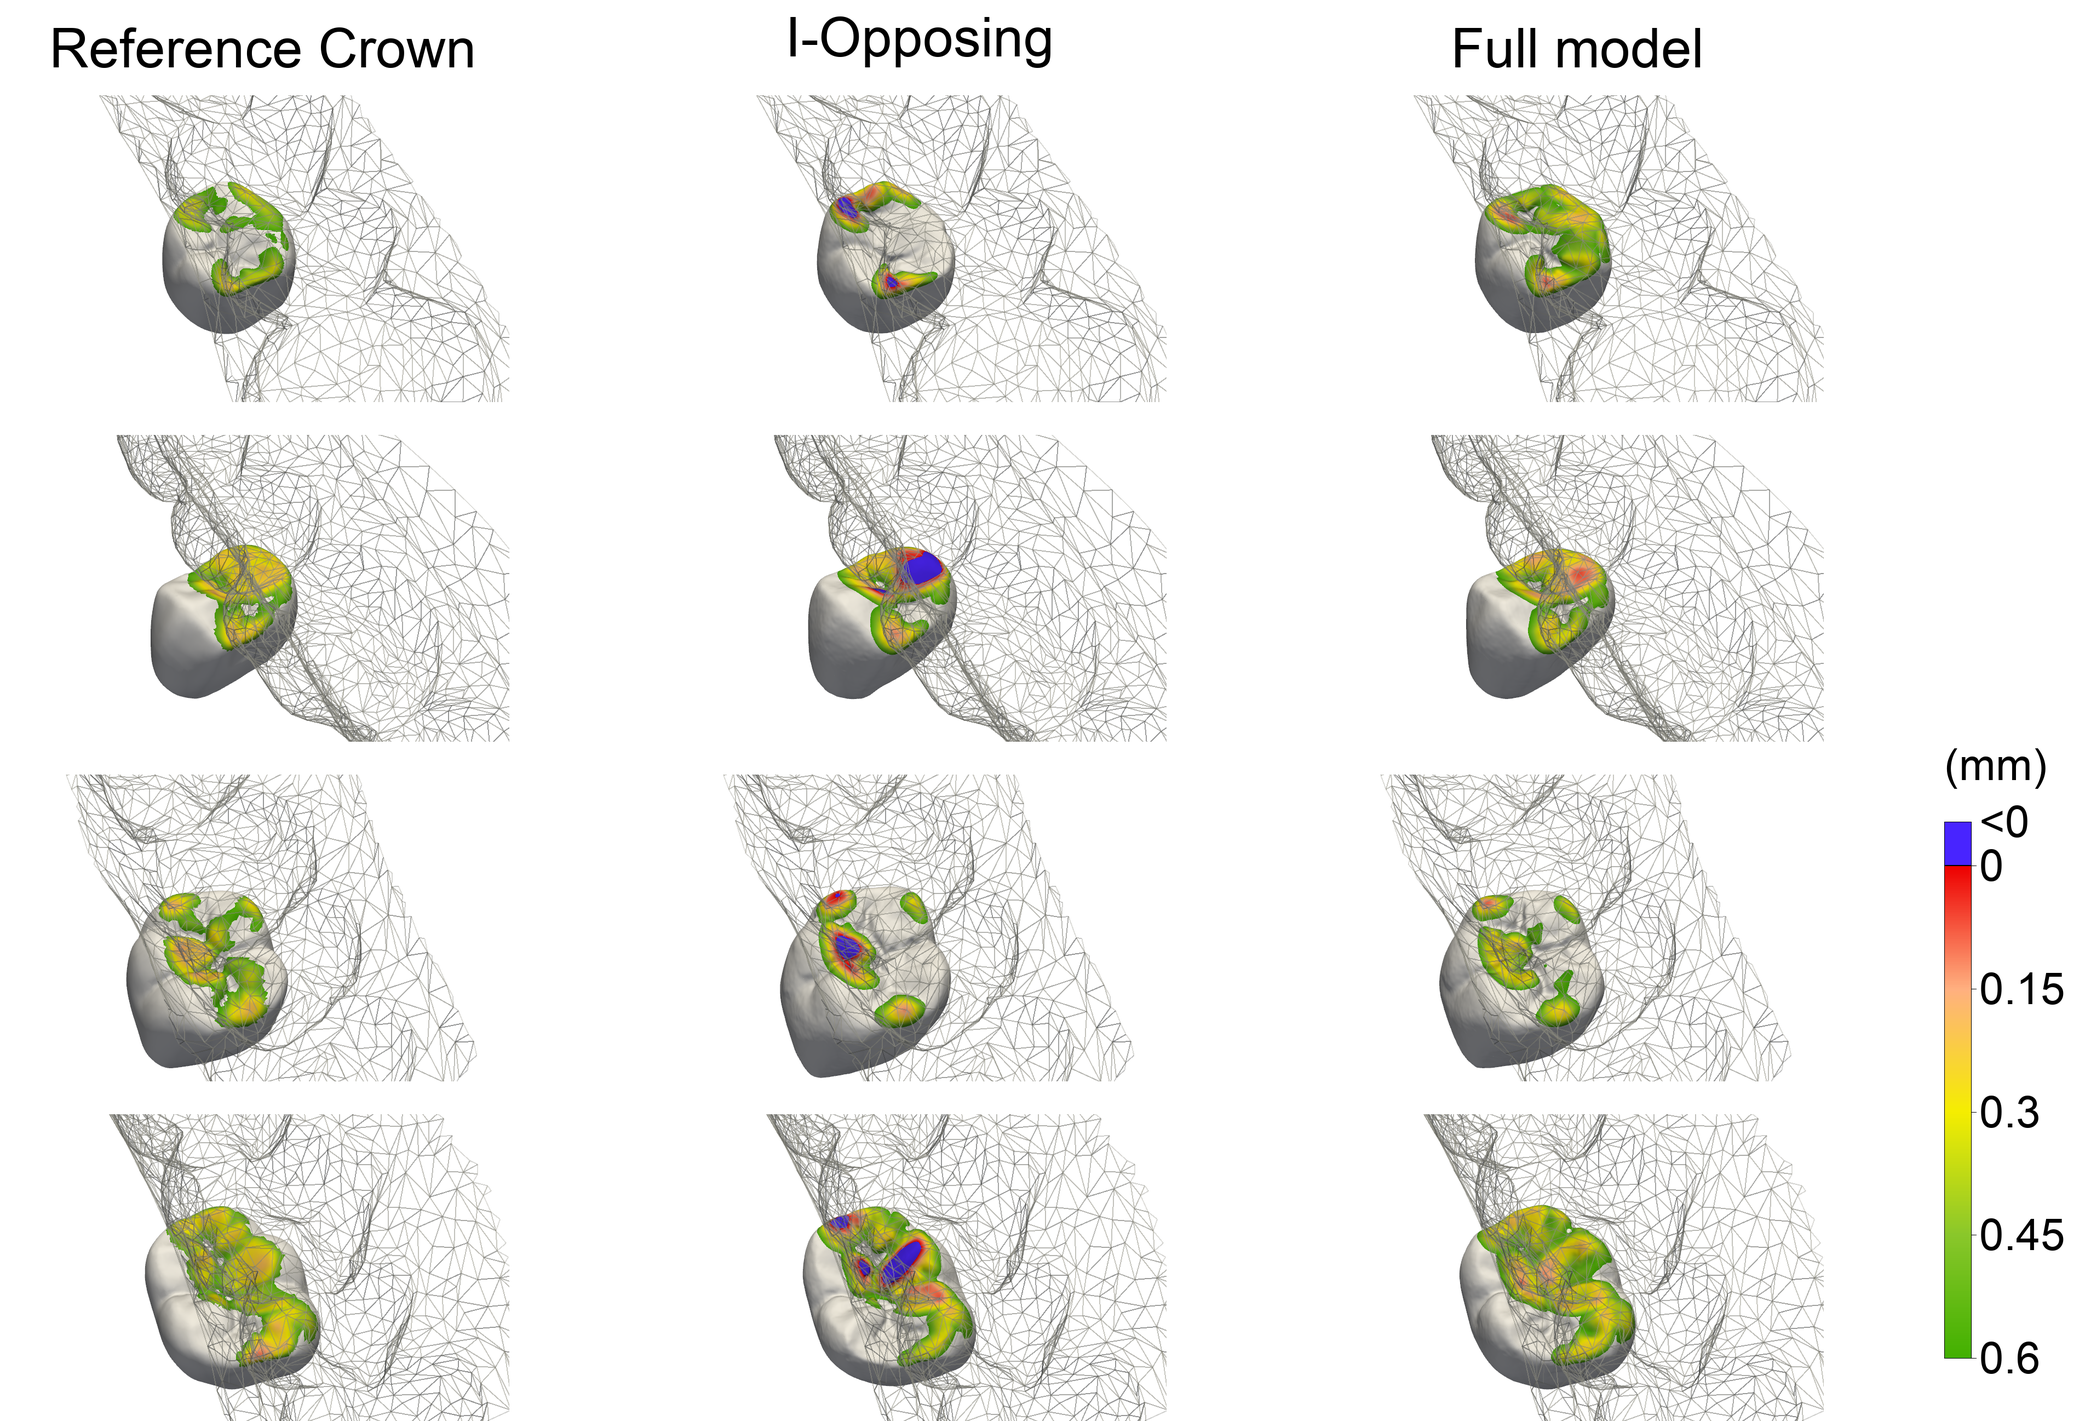
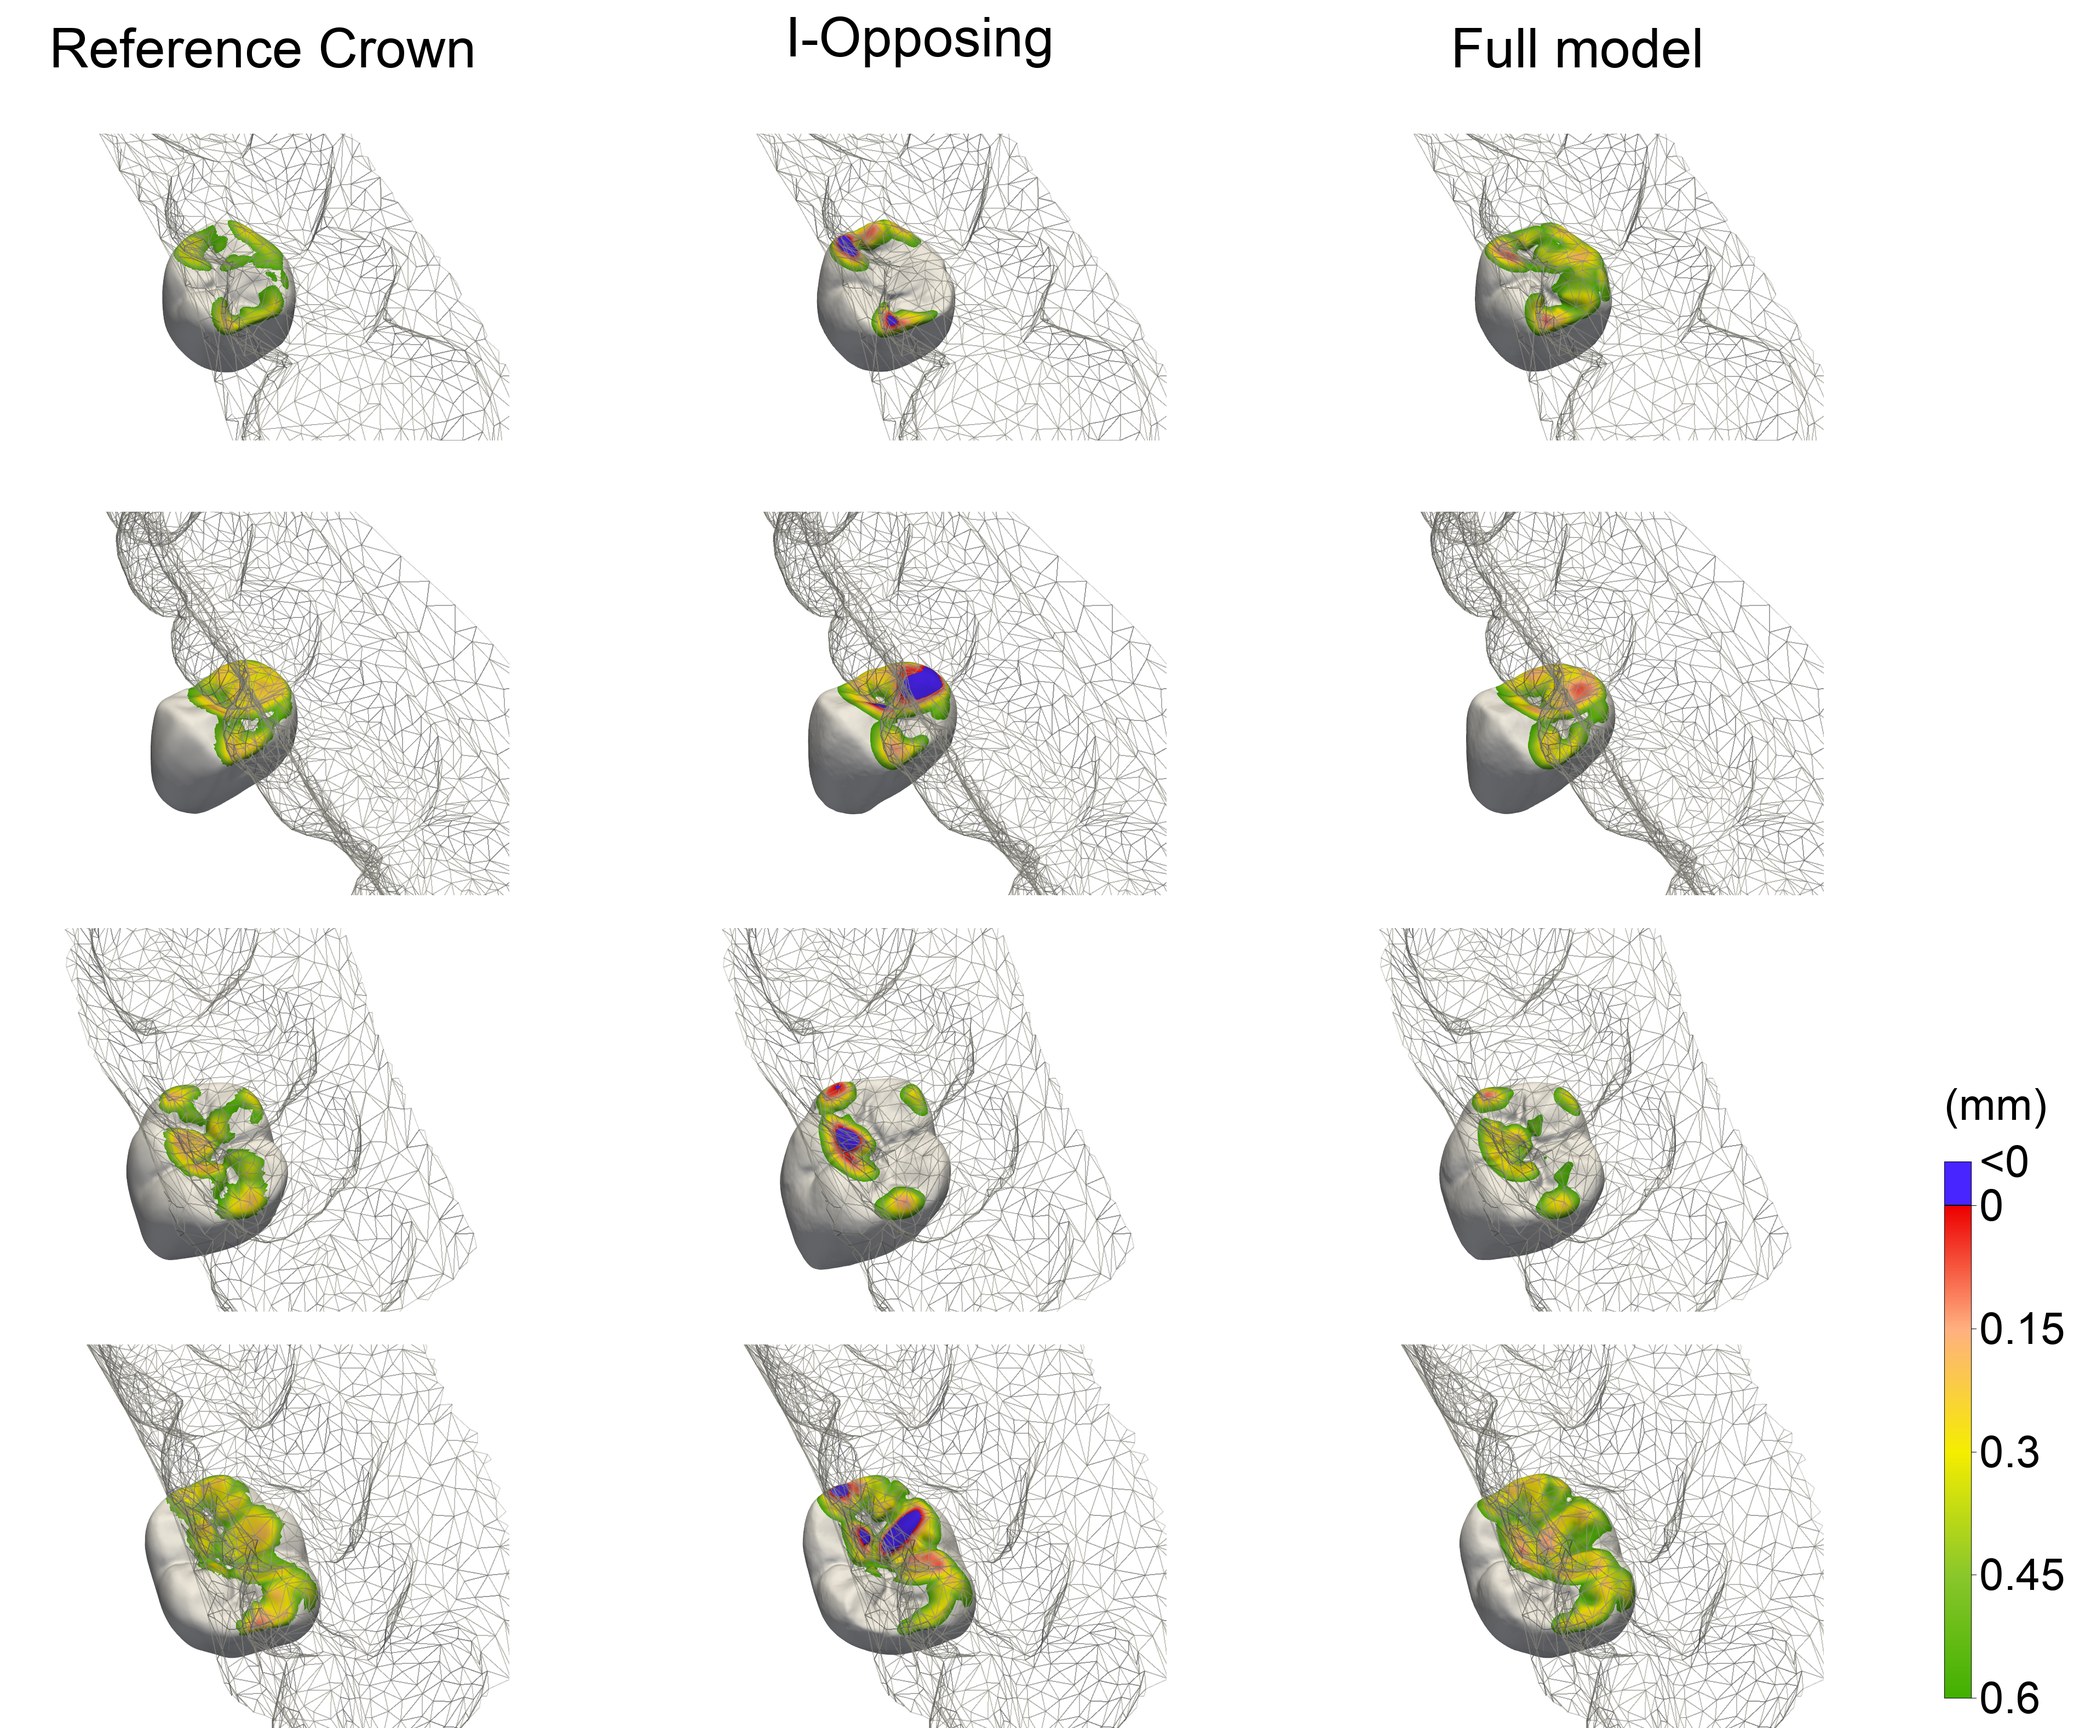
update merged_heatmaps.png

diff --git a/figures/ablation_occlusion/step3_merge_imgs.py b/figures/ablation_occlusion/step3_merge_imgs.py
@@ -42,7 +42,7 @@ def main() -> None:
     parser.add_argument("--colorbar-thickness", type=int, default=50)
     parser.add_argument("--colorbar-gap", type=int, default=120)
     parser.add_argument("--colorbar-position", nargs=2, type=int, 
-            default=(3550, 1580), metavar=("X", "Y"), help="colorbar top-left position; default is right of images")
+            default=(3550, 2200), metavar=("X", "Y"), help="colorbar top-left position; default is right of images")
     args = parser.parse_args()
     if len(args.clim) not in (1, 2): parser.error("--clim expects MAX or MIN MAX")
     vmin, vmax = (0.0, args.clim[0]) if len(args.clim) == 1 else args.clim
